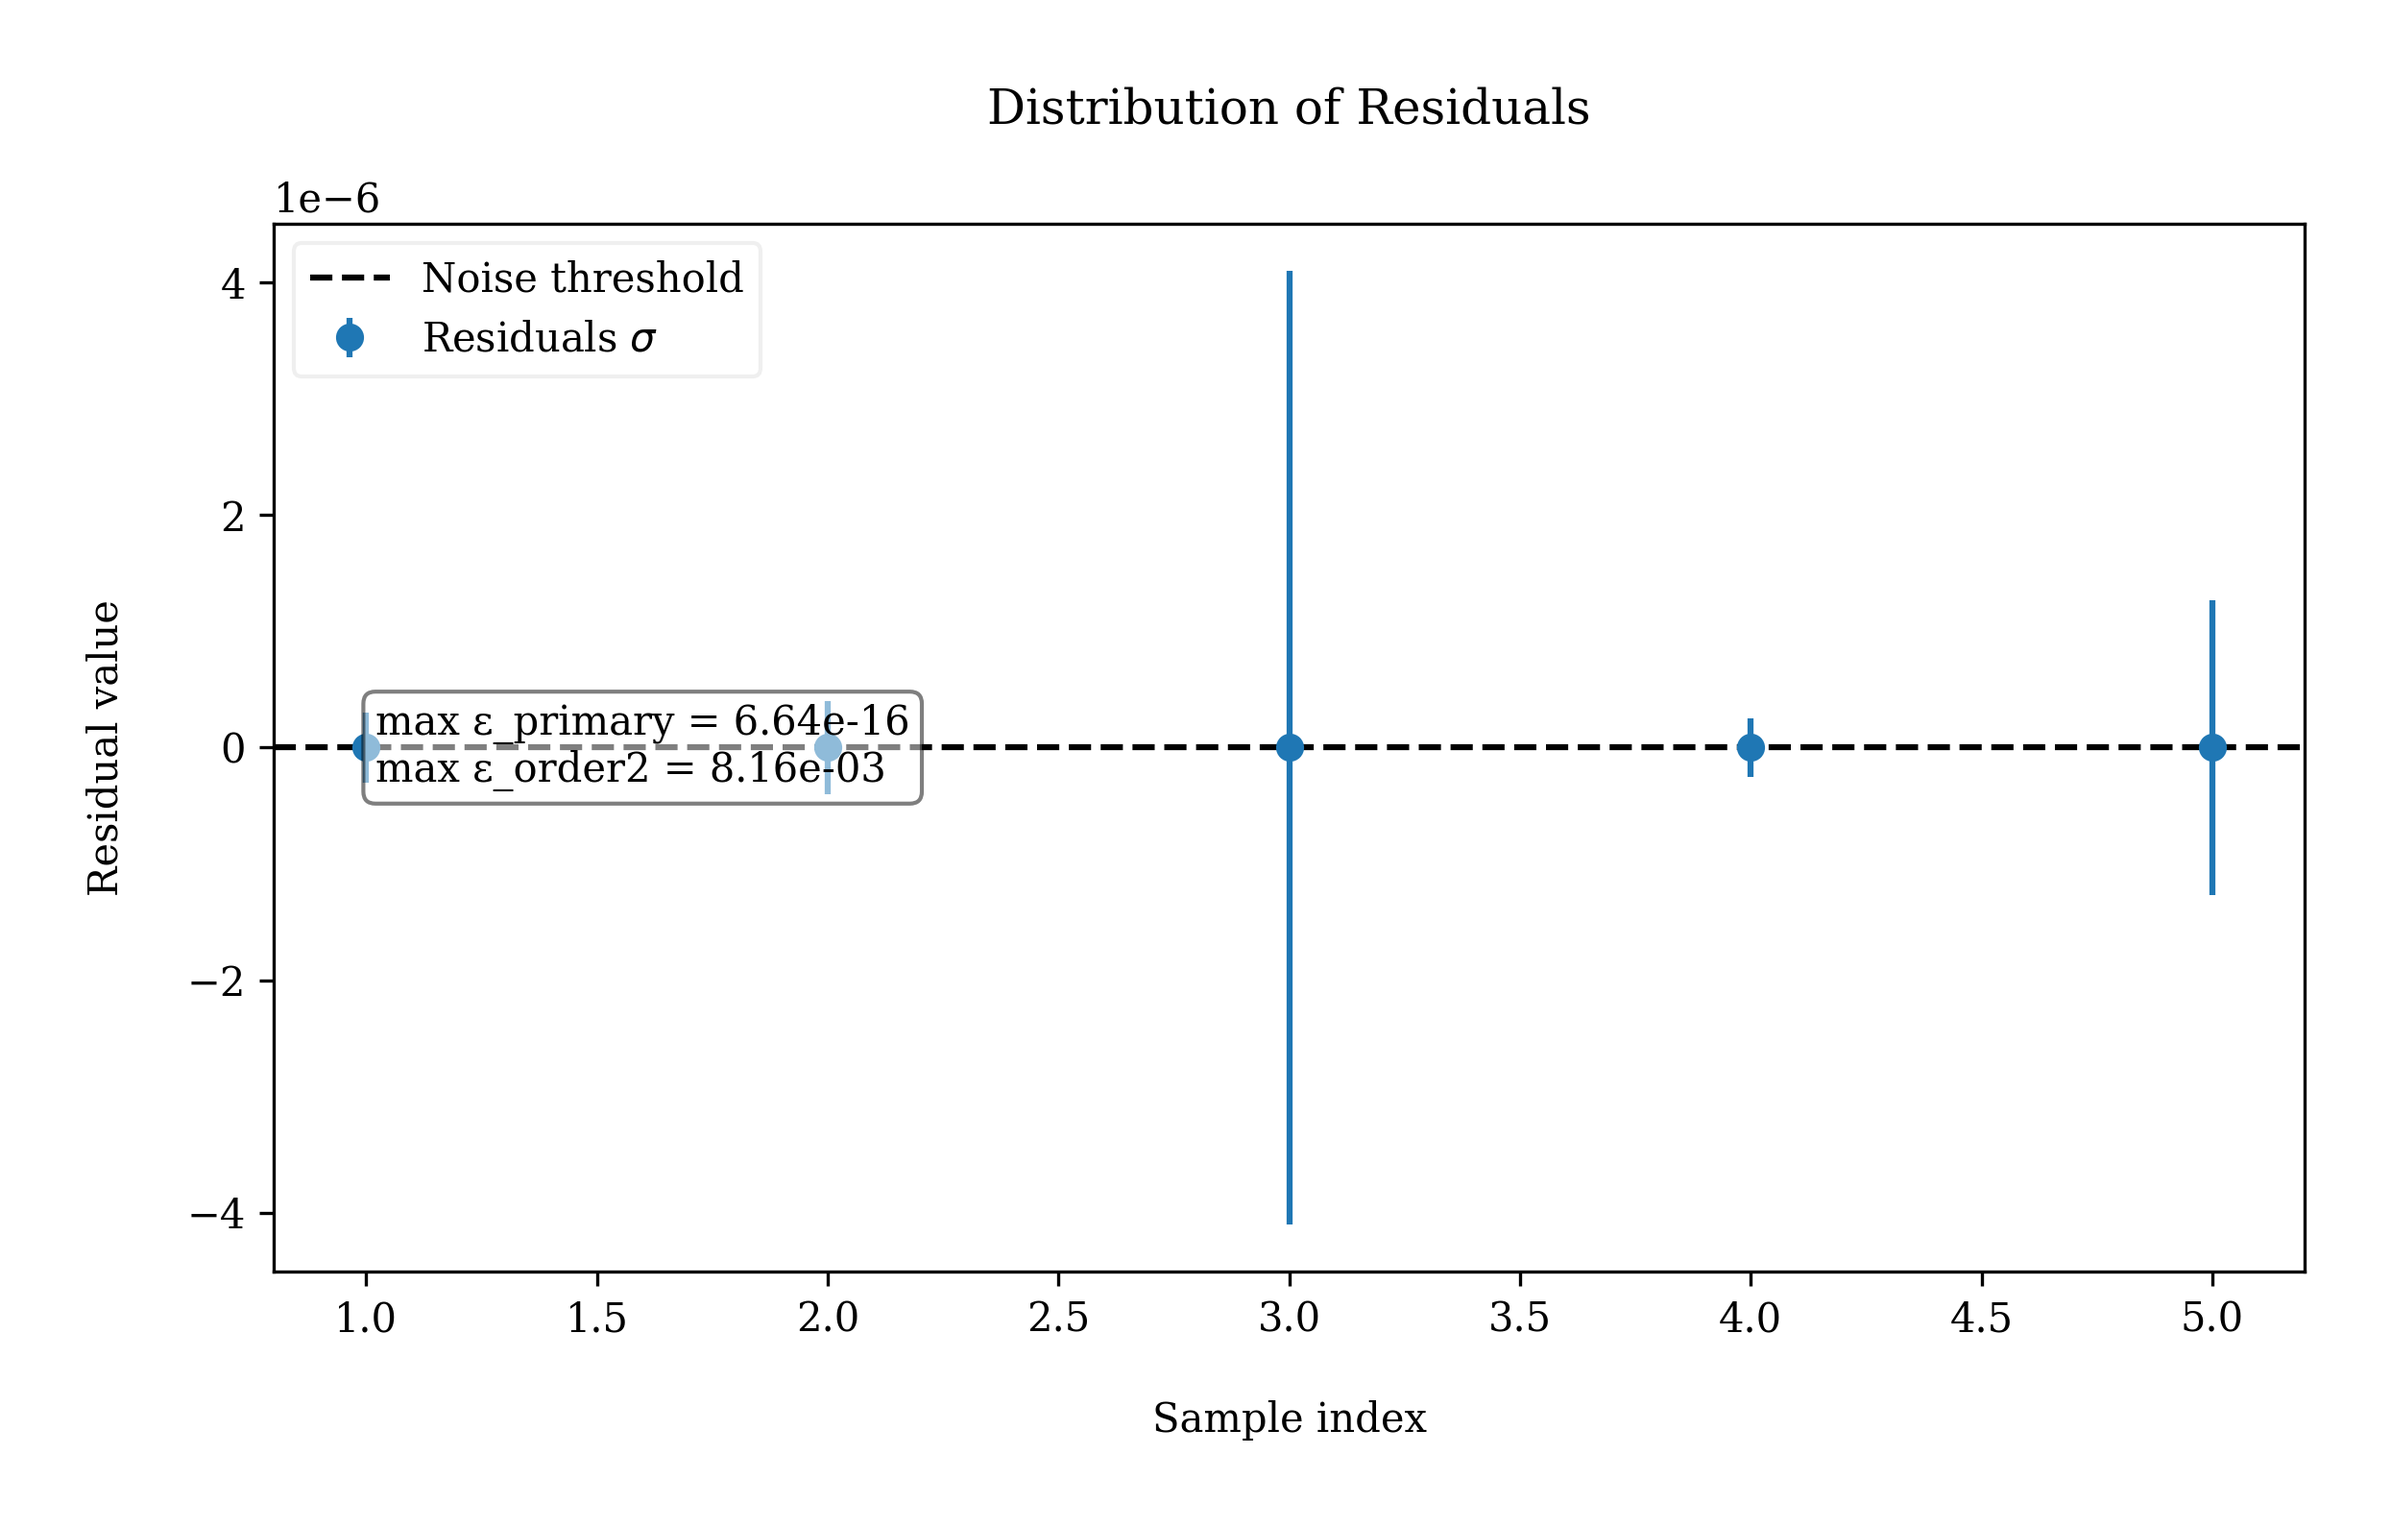
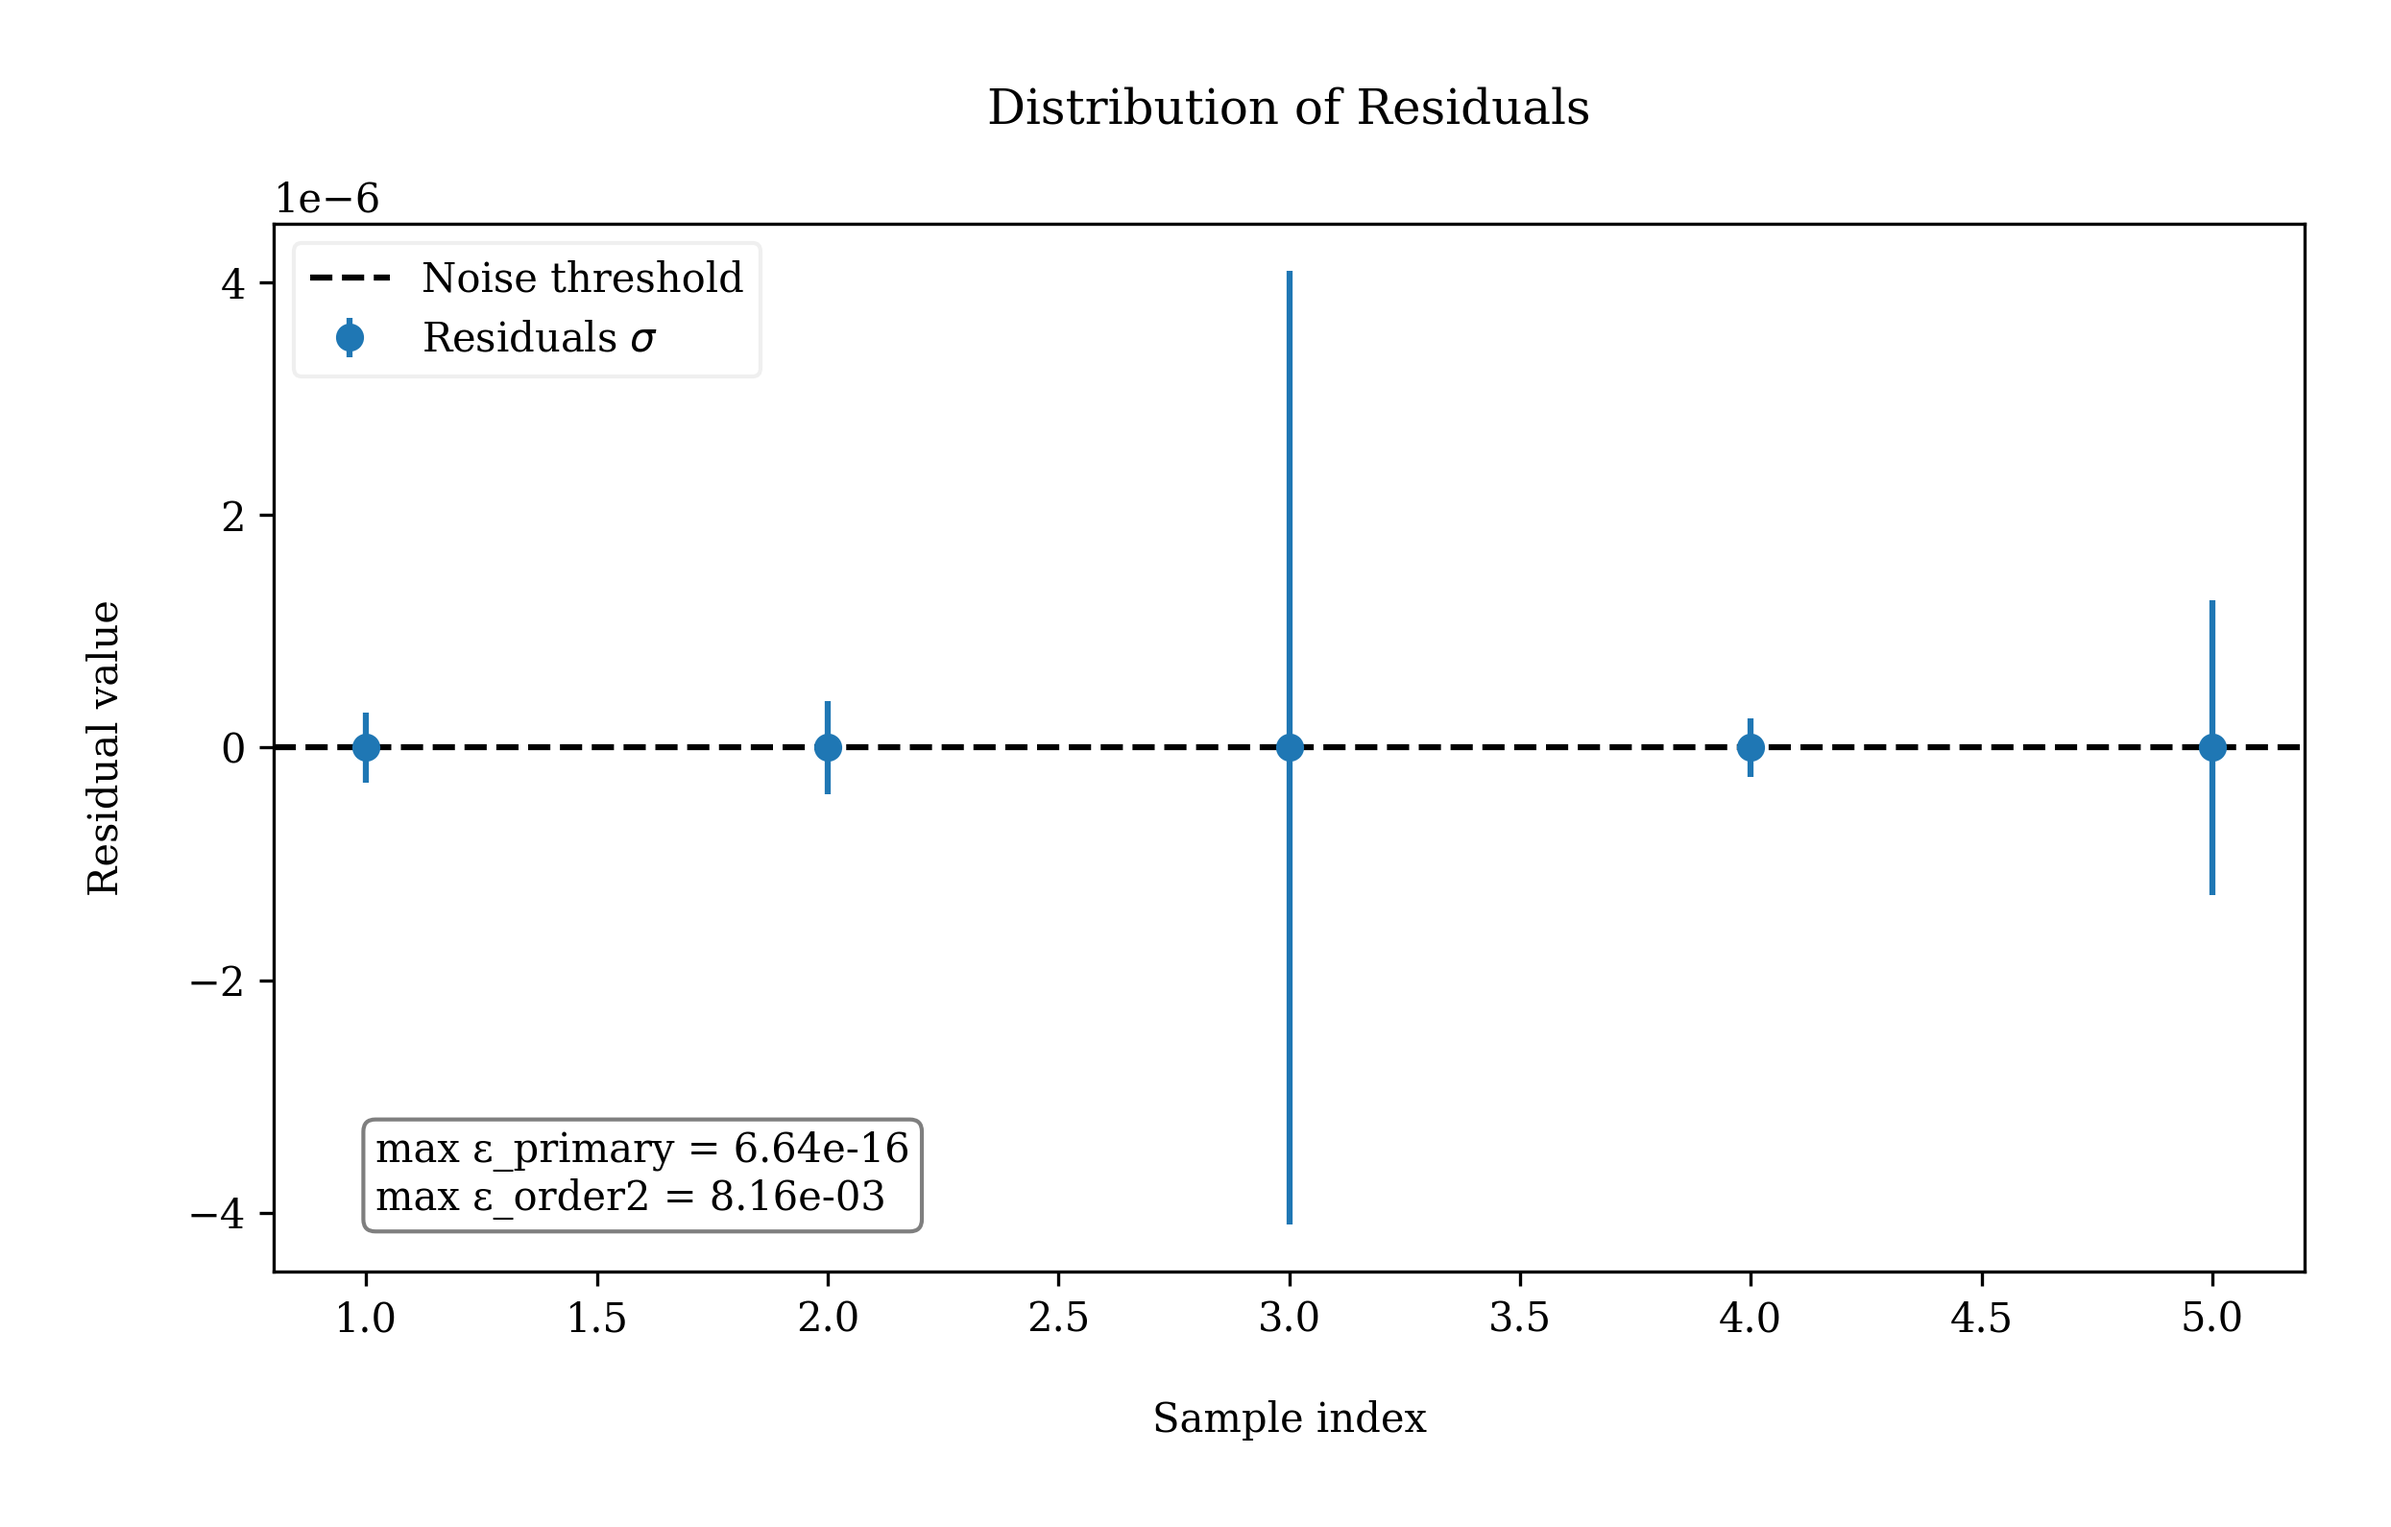
fix(viz): solve overlapping labels and scale formatting for CH05

Changed region(s): [[0.1237, 0.4314, 0.402, 0.5547], [0.1546, 0.7088, 0.402, 0.8321]]

diff --git a/zz-scripts/chapter05/05_fig_03_correlation.py b/zz-scripts/chapter05/05_fig_03_correlation.py
@@ -54,6 +54,7 @@ from pathlib import Path
 import matplotlib.pyplot as plt
 import numpy as np
 import pandas as pd
+from matplotlib.ticker import ScalarFormatter
 
 
 def tracer_fig03_yp_modele_contre_obs(
@@ -105,6 +106,10 @@ def tracer_fig03_yp_modele_contre_obs(
     ax.plot(lims, lims, "--", color="gray", label=r"$y=x$")
     ax.set_xlim(lims)
     ax.set_ylim(lims)
+
+    fmt = ScalarFormatter(useMathText=True)
+    fmt.set_powerlimits((0, 0))
+    ax.xaxis.set_major_formatter(fmt)
 
     # Labels et titre
     ax.set_xlabel(r"$\alpha$")

diff --git a/zz-scripts/chapter05/05_fig_02_residuals.py b/zz-scripts/chapter05/05_fig_02_residuals.py
@@ -140,10 +140,10 @@ def main(args=None) -> None:
     if txt_lines:
         ax.text(
             0.05,
-            0.5,
+            0.05,
             "\n".join(txt_lines),
             transform=ax.transAxes,
-            va="center",
+            va="bottom",
             ha="left",
             bbox=dict(boxstyle="round", facecolor="white", alpha=0.5),
         )
